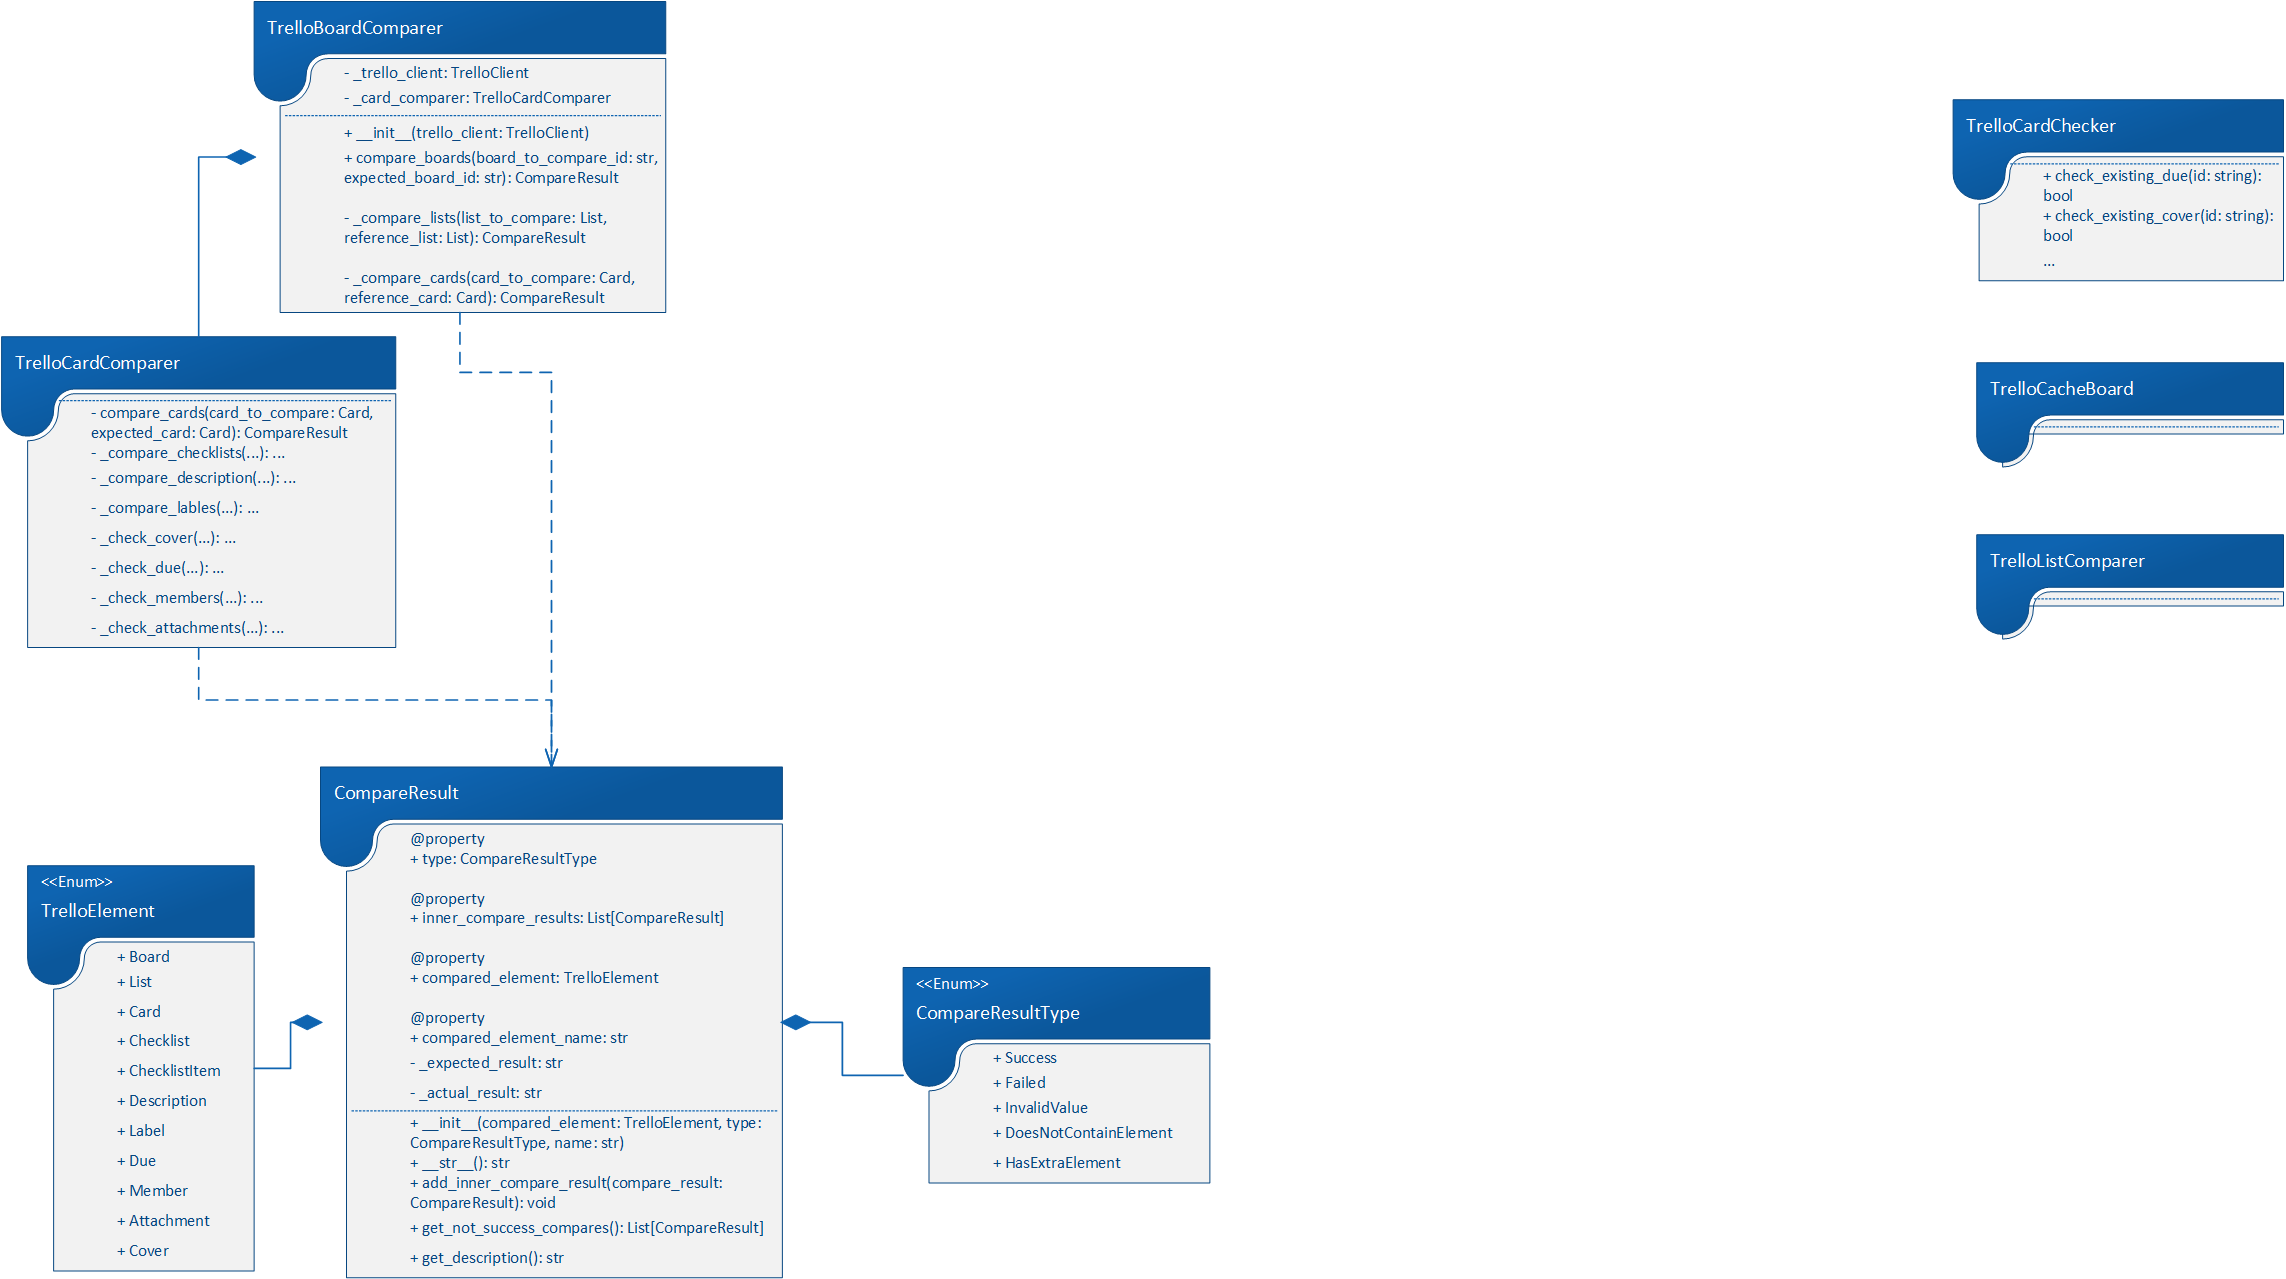
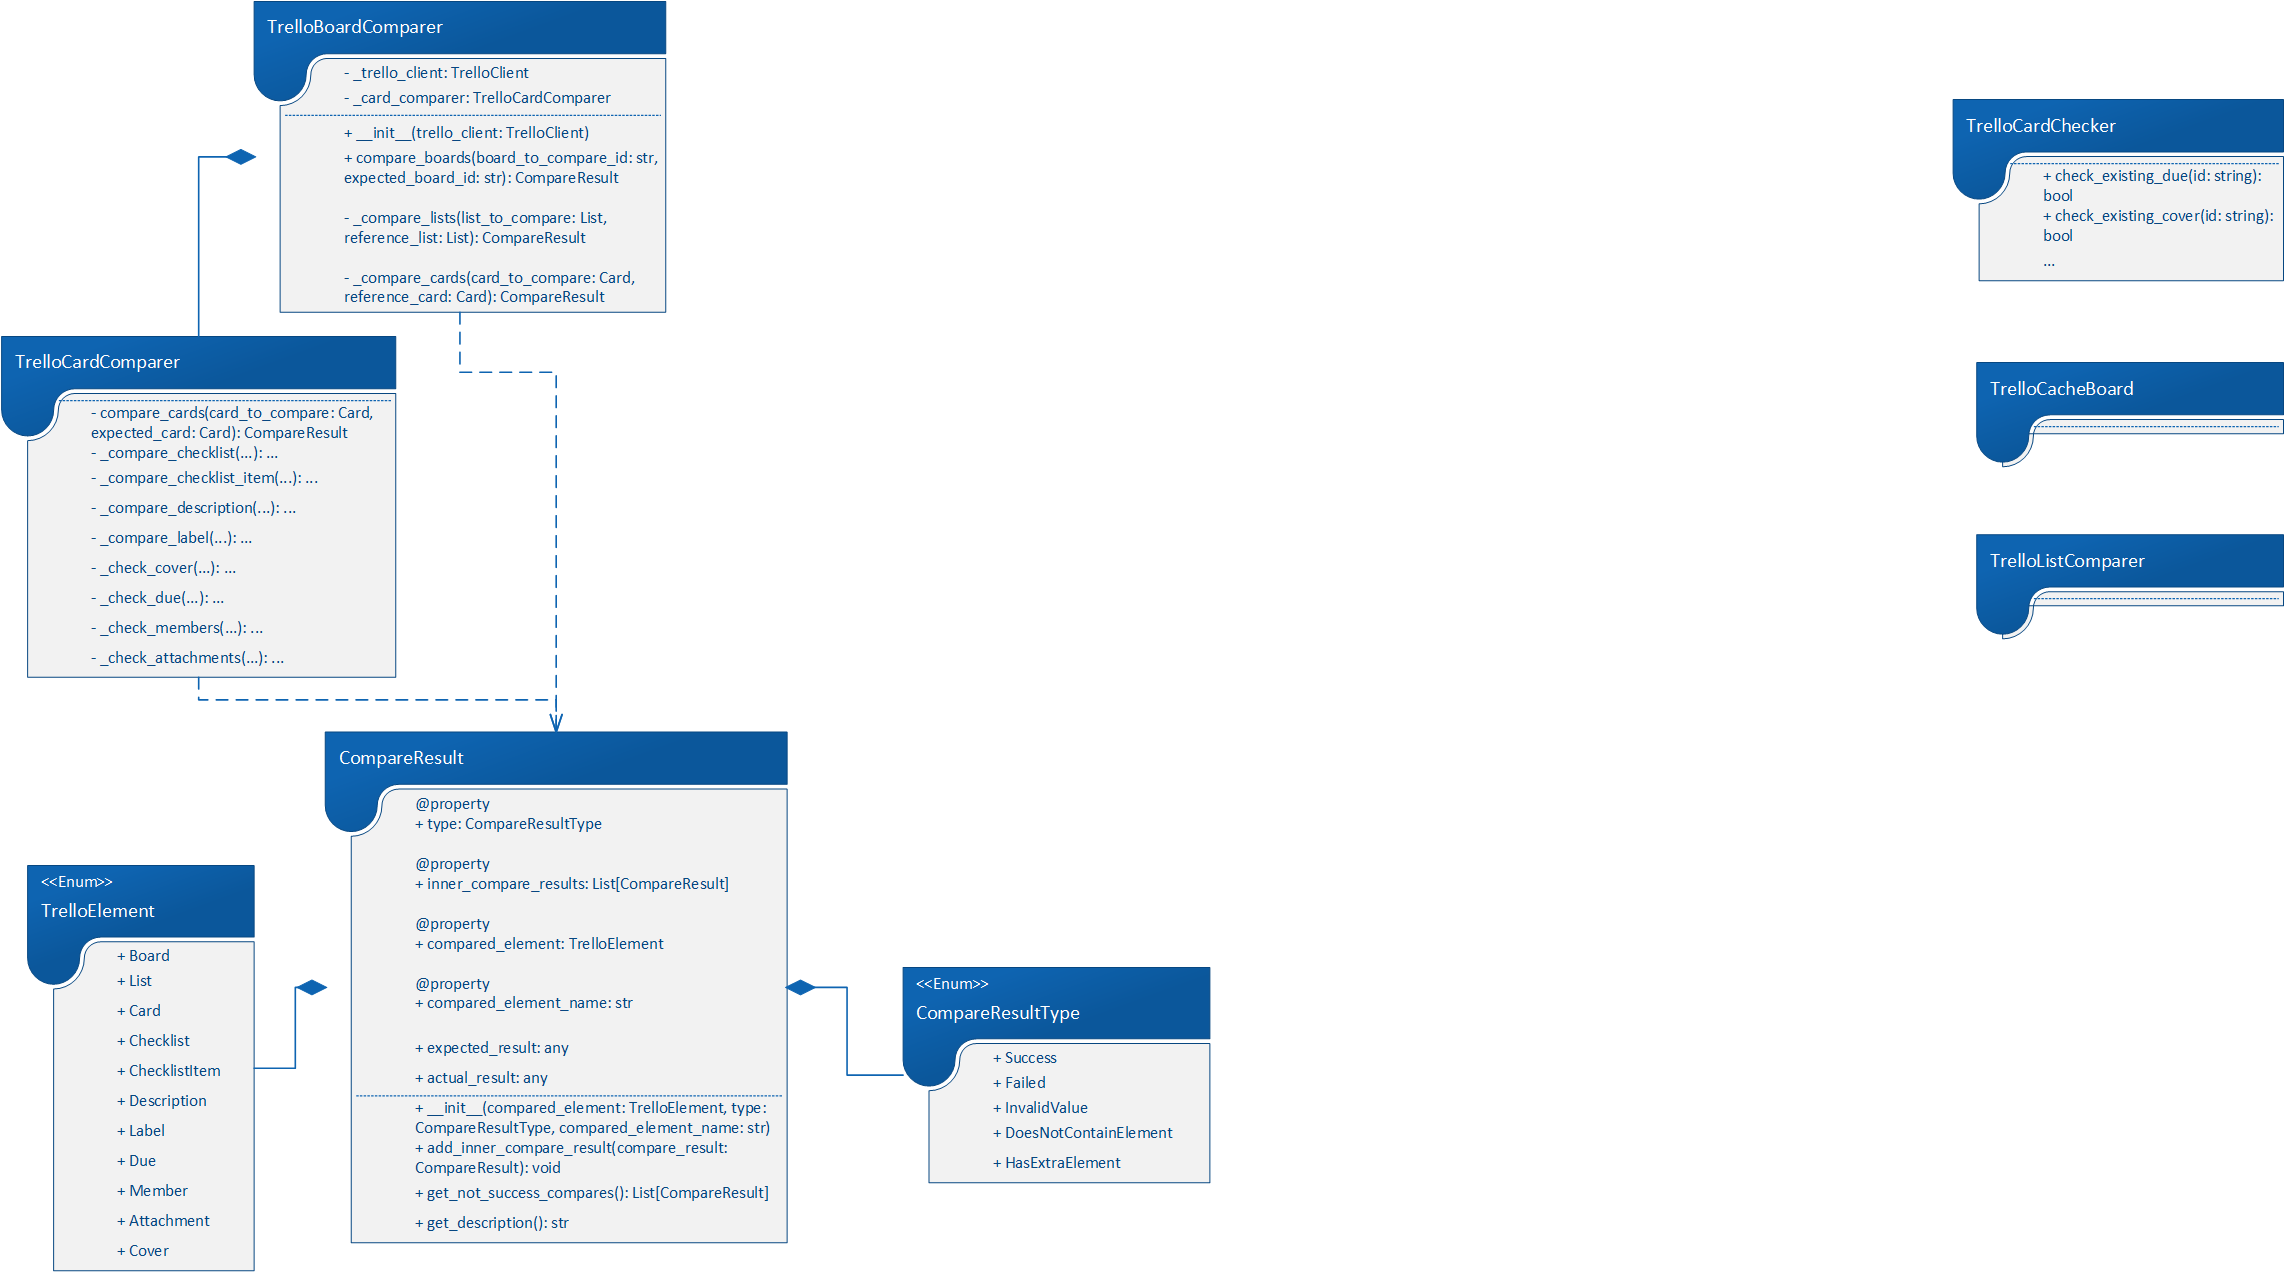
Fix error with CompareResult annotations, add attributes for expected and actual values
Change description template for TrelloElement.LIST

Small change in uml-diagram

diff --git a/classes/CompareResult.py b/classes/CompareResult.py
@@ -18,7 +18,7 @@ class CompareResultType(Enum):
 @unique
 class TrelloElement(Enum):
     BOARD = (1, "доска")
-    LIST = (2, "колонка")
+    LIST = (2, "список")
     CARD = (3, "карточка")
     CHECKLIST = (4, "чек-лист")
     CHECKLIST_ITEM = (5, "элемент чек-листа")
@@ -44,7 +44,10 @@ class CompareResult:
         self._compared_element = compared_element
         self._type = compare_result_type
         self._compared_element_name = compared_element_name
+
         self._inner_compare_results = []
+        self.expected_value = None
+        self.actual_value = None
 
     @property
     def compared_element(self):
@@ -68,7 +71,7 @@ class CompareResult:
 
         self._inner_compare_results.append(compare_result)
 
-    def get_not_success_results(self) -> Generator["CompareResult"]:
+    def get_not_success_results(self) -> Generator["CompareResult", None, None]:
         if self.is_success:
             return
 
